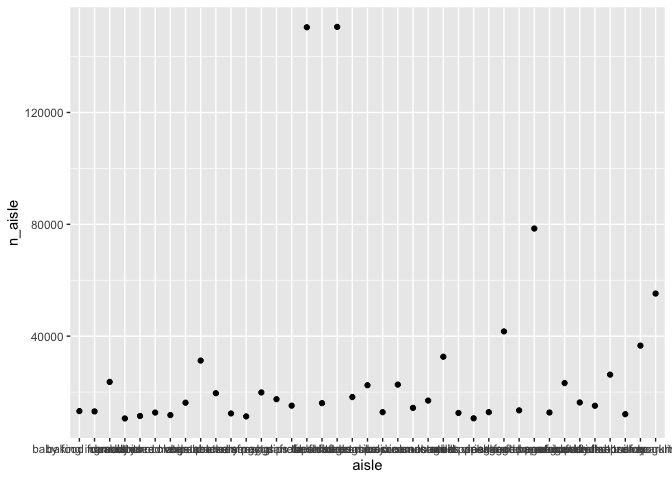
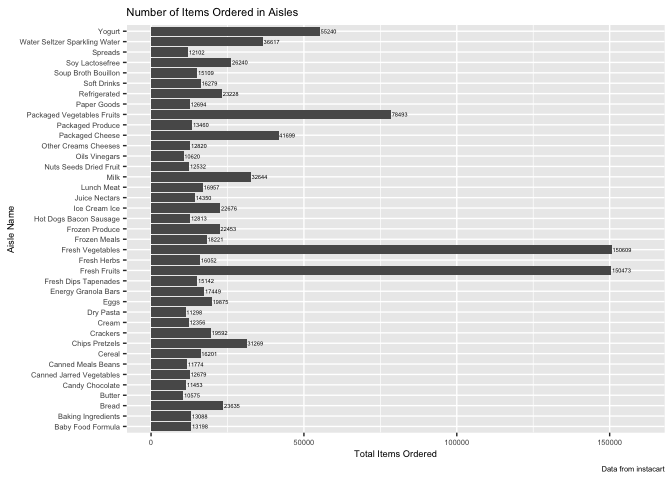
still working on plot for problem 1

diff --git a/HW3.md b/HW3.md
@@ -9,14 +9,14 @@ Holly Finertie
 library(tidyverse)
 ```
 
-    ## ── Attaching packages ─────────────────────────────────────────────────────────────────────────────────── tidyverse 1.2.1 ──
+    ## ── Attaching packages ───────────────────────────────────────────── tidyverse 1.2.1 ──
 
     ## ✔ ggplot2 3.2.1     ✔ purrr   0.3.2
     ## ✔ tibble  2.1.3     ✔ dplyr   0.8.3
     ## ✔ tidyr   1.0.0     ✔ stringr 1.4.0
     ## ✔ readr   1.3.1     ✔ forcats 0.4.0
 
-    ## ── Conflicts ────────────────────────────────────────────────────────────────────────────────────── tidyverse_conflicts() ──
+    ## ── Conflicts ──────────────────────────────────────────────── tidyverse_conflicts() ──
     ## ✖ dplyr::filter() masks stats::filter()
     ## ✖ dplyr::lag()    masks stats::lag()
 
@@ -41,11 +41,23 @@ fresh vegetables.
 plot_aisles = instacart %>% 
   count(aisle, name = "n_aisle") %>% 
   filter(n_aisle > 10000) %>% 
-  arrange(n_aisle) %>% 
-  ggplot(aes(x = aisle, y = n_aisle), color = aisle) +
-  geom_point()
+  arrange(desc(aisle)) %>% 
+  mutate(
+    aisle = str_to_title(aisle)
+  ) %>% 
+  ggplot(aes(x = aisle, y = n_aisle)) +
+  geom_bar(stat ="identity") + 
+  geom_text(aes(label = n_aisle), hjust=-0.05, size = 1.5) +
+  labs(
+    title = "Number of Items Ordered in Aisles",
+    x = "Aisle Name",
+    y = "Total Items Ordered",
+    caption = "Data from instacart") +
+  scale_y_continuous(limits = c(0, 160000)) +
+  theme(text = element_text(size=7))
+  
 
-plot_aisles 
+plot_aisles + coord_flip()
 ```
 
 ![](HW3_files/figure-gfm/unnamed-chunk-2-1.png)<!-- -->
